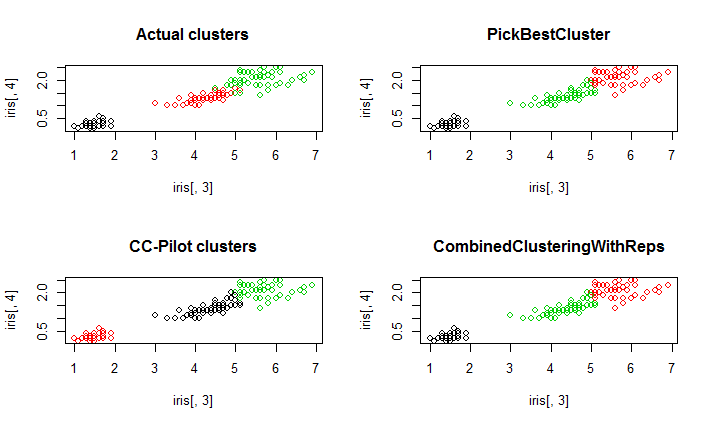
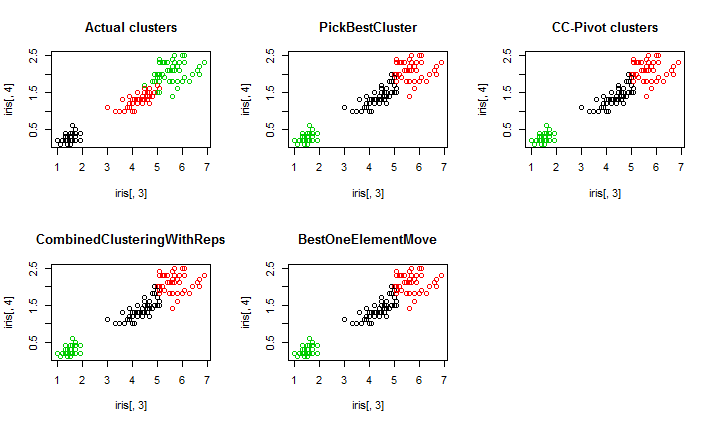
Adding Best One Element Moves

diff --git a/README.md b/README.md
@@ -10,6 +10,7 @@ This library contains various consensus and correlation clustering algorithms. T
 2. **PickBestCluster:** Given a set of clusterings, this picks the clustering that has the lowest total distance from the other clusterings. 
 3. **BestOfTwo:** Compares two consensus clusterings by computing their distance from all of the given clusterings and then picks the consensus clustering with the lower total distance. 
 4. **CombinedClusteringWithReps:** This is a clustering method that runs the BestOfTwo method for several iterations, keeping the cluster with the lowest total distance. The CC-Pivot algorithm is run at each iteration. 
+5. **BestOneElementMove:** This is a clustering method that starts from an initial clustering and keeps making the best possible one element move that reduces the distance from other clusters. This is done till no such moves exist. This is taken from the paper 'Consensus Clustering Algorithms: Comparison and Refinement' by Goder et. al. (http://citeseerx.ist.psu.edu/viewdoc/download?doi=10.1.1.111.3989&rep=rep1&type=pdf). 
 
 
 
@@ -28,52 +29,59 @@ install_github('mukhes3/AggregationMethods')
 This code is available through the function 'ConsensusClusteringExample()'. 
 
 ```R
-library(datasets)
-head(iris)
+  library(datasets)
+  head(iris)
+  
+  InstanceList <- list()
+  
+  cat('Performing 5 instances of kmeans clustering \n')
+  #Running 5 instances of Kmeans clustering 
+  for (i in 1:5){ 
+    
+    temp1 <- kmeans(iris[, 2:4], 3, nstart = 1)
+    
+    InstanceList <- c(InstanceList, list(temp1$cluster))
+    
+  }
+  
+  Temp <- Corr2Cons(InstanceList)
+  G <- Temp$G
+  N <- length(iris[,3])
+  
+  par(mfrow=c(2,3))
+  
+  #Plotting true clusters based on species
+  cat('Plotting true clusters based on species \n')
+  plot(iris[,3],iris[,4], col = iris$Species)
+  title('Actual clusters')
+  
+  #Performing PickBestCluster clustering
+  cat('Performing PickBestCluster clustering \n')
+  C_1 <- PickBestCluster(InstanceList)
+  C_1 <- as.factor(C_1)
+  plot(iris[,3],iris[,4], col = C_1)
+  title('PickBestCluster')
 
-InstanceList <- list()
-
-cat('Performing 5 instances of kmeans clustering \n')
-#Running 5 instances of Kmeans clustering 
-for (i in 1:5){ 
-
-  temp1 <- kmeans(iris[, 2:4], 3, nstart = 1)
-
-  InstanceList <- c(InstanceList, list(temp1$cluster))
-
-}
-
-Temp <- Corr2Cons(InstanceList)
-G <- Temp$G
-N <- length(iris[,3])
-
-par(mfrow=c(2,2))
-
-#Plotting true clusters based on species
-cat('Plotting true clusters based on species \n')
-plot(iris[,3],iris[,4], col = iris$Species)
-title('Actual clusters')
-
-#Performing PickBestCluster clustering
-cat('Performing PickBestCluster clustering \n')
-C_1 <- PickBestCluster(InstanceList)
-C_1 <- as.factor(C_1)
-plot(iris[,3],iris[,4], col = C_1)
-title('PickBestCluster')
-
-#Performing CC-Pivot clustering
-cat('Performing CC-Pivot clustering \n')
-C_2 <- Convert2Labels(CC.Pivot(G),N)
-C_2 <- as.factor(C_2)
-plot(iris[,3],iris[,4], col = C_2)
-title('CC-Pilot clusters')
-
-#Performing CombinedClusteringWithReps
-cat('Performing CombinedClusteringWithReps, reps = 10 \n')
-C_3 <- CombinedClusteringWithReps(InstanceList, 10)
-C_3 <- as.factor(C_3)
-plot(iris[,3],iris[,4], col = C_3)
-title('CombinedClusteringWithReps')
+  #Performing CC-Pivot clustering
+  cat('Performing CC-Pivot clustering \n')
+  C_2 <- Convert2Labels(CC.Pivot(G),N)
+  C_2 <- as.factor(C_2)
+  plot(iris[,3],iris[,4], col = C_2)
+  title('CC-Pivot clusters')
+  
+  #Performing CombinedClusteringWithReps
+  cat('Performing CombinedClusteringWithReps, reps = 10 \n')
+  C_3 <- CombinedClusteringWithReps(InstanceList, 10)
+  C_3 <- as.factor(C_3)
+  plot(iris[,3],iris[,4], col = C_3)
+  title('CombinedClusteringWithReps')
+  
+  #Performing BestOneElementMove
+  cat('Performing BestOneElementMove \n')
+  C_4 <- BestOneElementMove(G$Ep, InstanceList, C_1)
+  C_4 <- as.factor(C_4)
+  plot(iris[,3],iris[,4], col = C_4)
+  title('BestOneElementMove')
 
 ```
 
